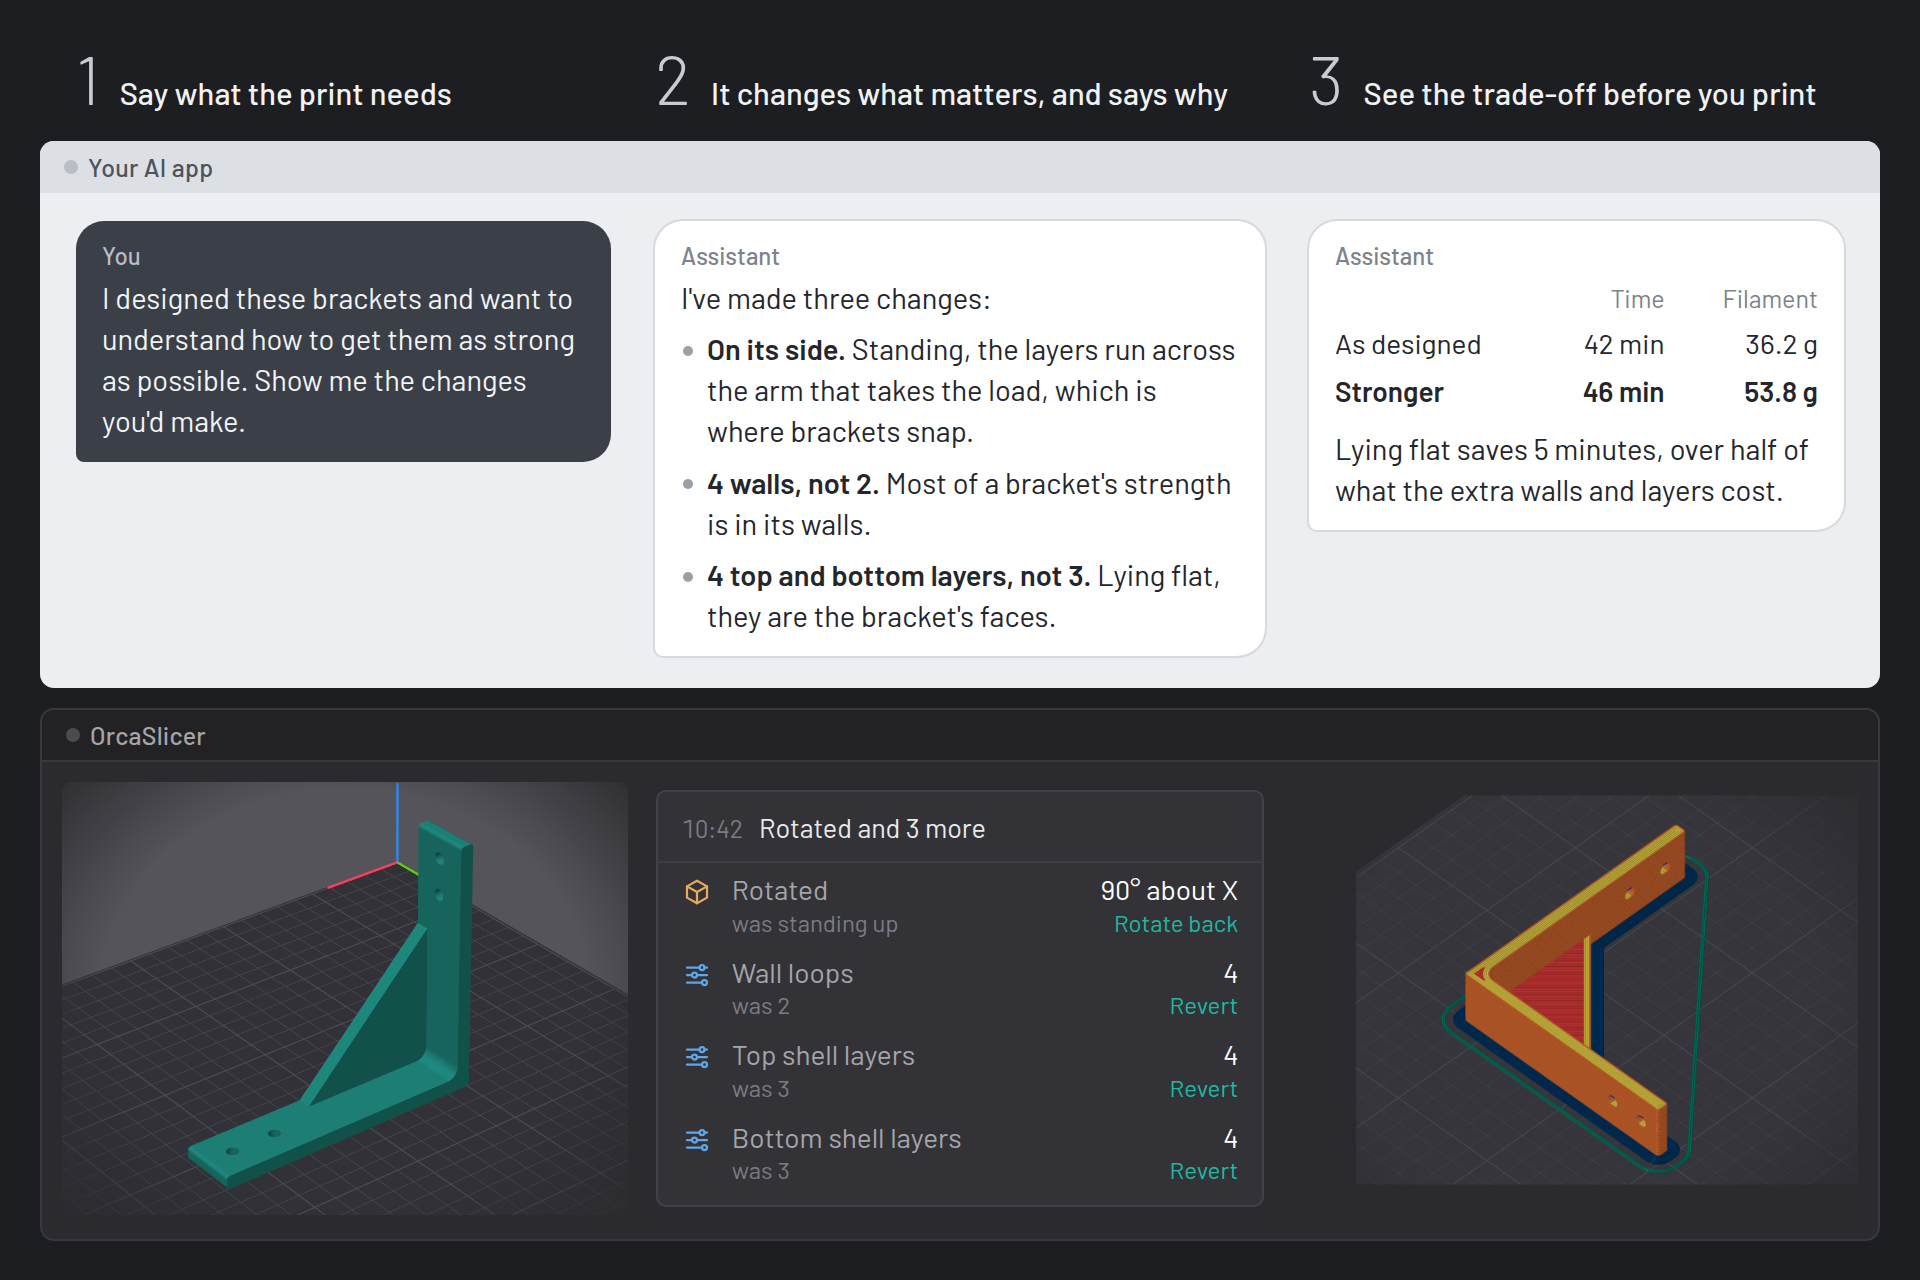
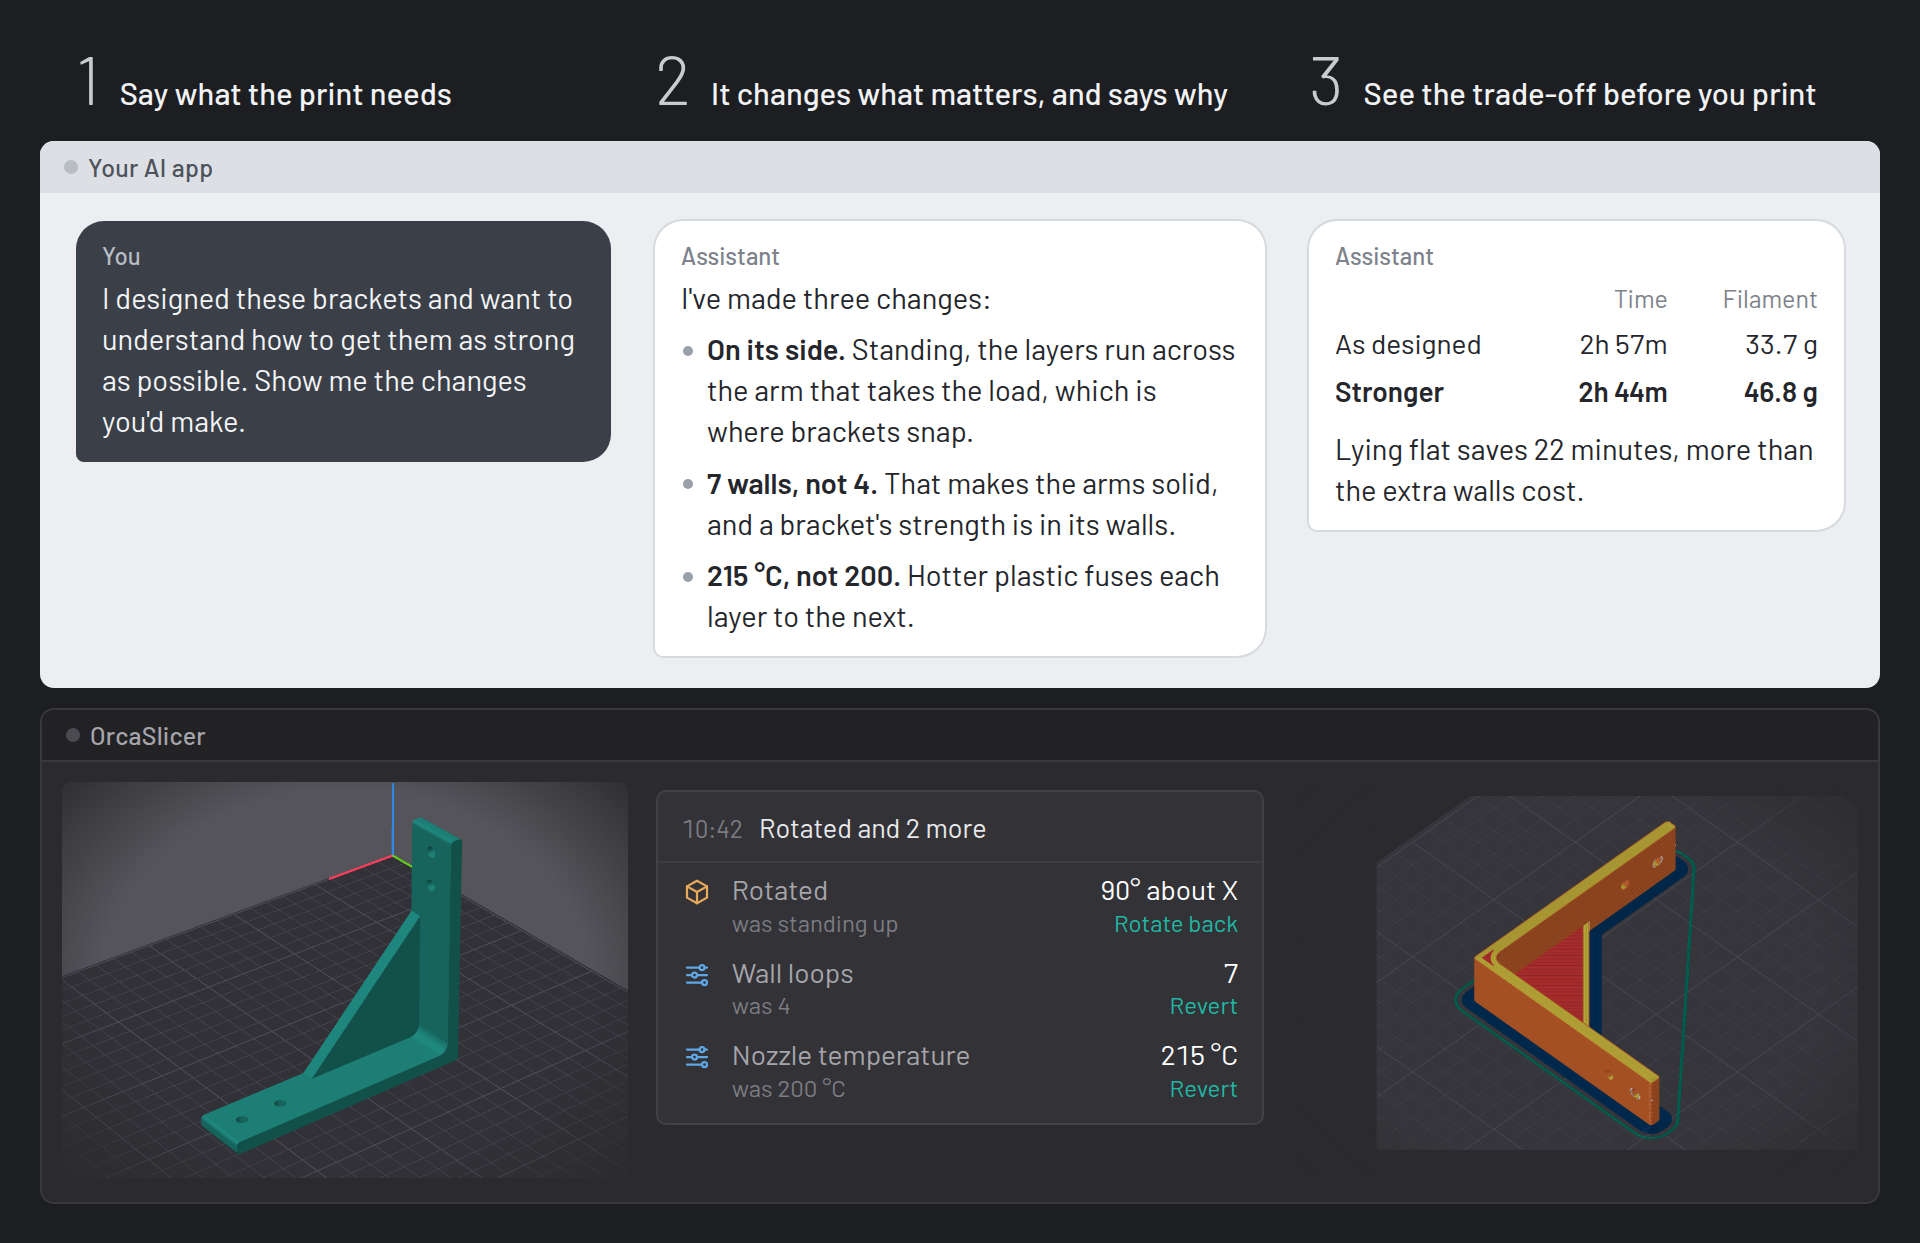
doc: story picture re-sliced on the stock Sidewinder X2 0.4 mm profile

diff --git a/README.md b/README.md
@@ -13,7 +13,7 @@
   <a href="https://lobehub.com/mcp/maxellis-orcaslicer-mcp"><img alt="MCP Badge" src="https://lobehub.com/badge/mcp/maxellis-orcaslicer-mcp"></a>
 </p>
 
-<p align="center"><img src="https://raw.githubusercontent.com/MaxEllis/orcaslicer-mcp/main/docs/images/story.png" alt="Three steps: a chat in your AI app above, OrcaSlicer below. 1: you write that you designed these brackets, want them as strong as possible, and ask it to show you the changes it would make; OrcaSlicer shows the bracket standing. 2: the assistant makes three changes and says why: on its side, because standing up the layers run across the arm that takes the load; 4 walls instead of 2, because most of a bracket's strength is in its walls; 4 top and bottom layers instead of 3. OrcaSlicer's MCP panel lists each change with Rotate back or Revert. 3: OrcaSlicer's slices compared: 42 min and 36.2 g as designed, 46 min and 53.8 g stronger; lying flat saves 5 minutes."></p>
+<p align="center"><img src="https://raw.githubusercontent.com/MaxEllis/orcaslicer-mcp/main/docs/images/story.png" alt="Three steps: a chat in your AI app above, OrcaSlicer below. 1: you write that you designed these brackets, want them as strong as possible, and ask it to show you the changes it would make; OrcaSlicer shows the bracket standing. 2: the assistant makes three changes and says why: on its side, because standing up the layers run across the arm that takes the load; 7 walls instead of 4, which makes the arms solid; 215 °C instead of 200 so the layers fuse better. OrcaSlicer's MCP panel lists each change with Rotate back or Revert. 3: OrcaSlicer's slices compared: 2h 57m and 33.7 g as designed, 2h 44m and 46.8 g stronger; lying flat saves 22 minutes, more than the extra walls cost."></p>
 
 You talk to the assistant in your usual AI app, in plain words. It makes the changes in OrcaSlicer, in the window you already use: settings, presets, models, slicing. A panel beside the 3D view lists every change it makes, with a way to undo each one.
 
